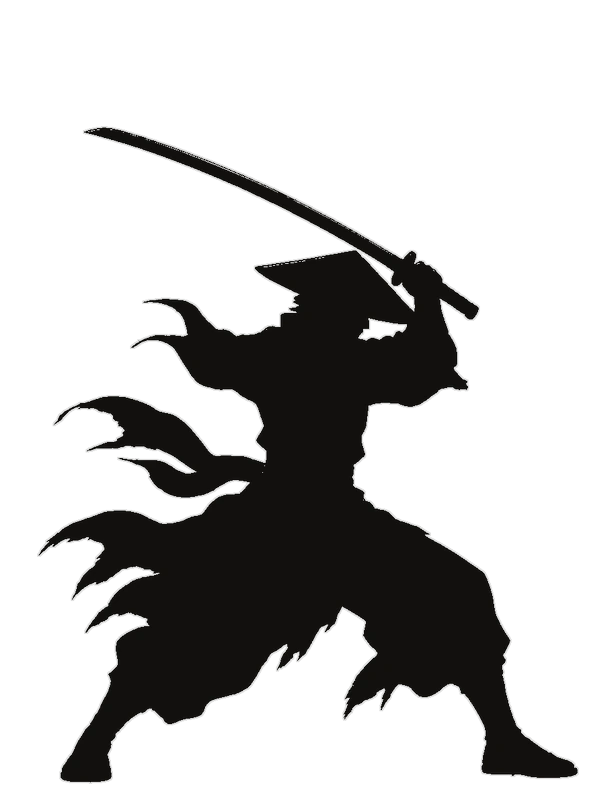
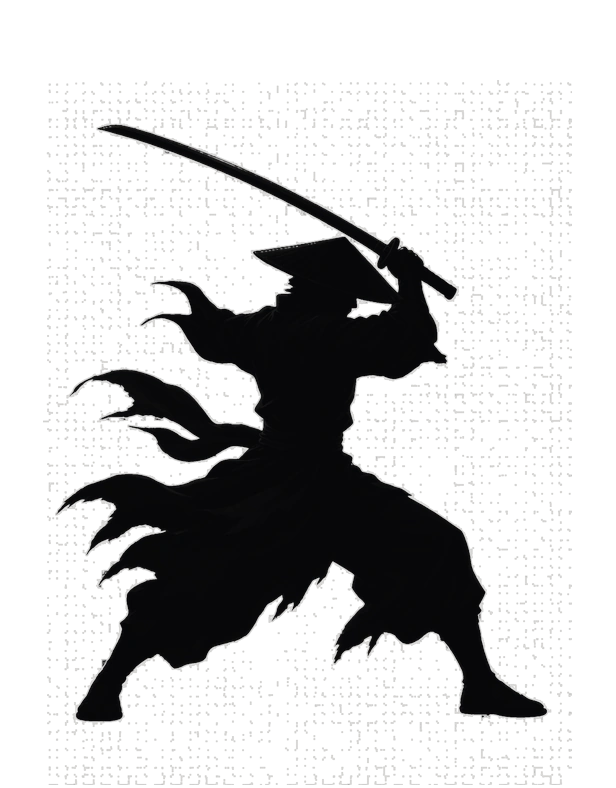
fix(spar): softer ink tones and smaller 0.34 stage scale
Reprocess HQ silhouettes with tonal ink wash and softer rims, and shrink
draw scale further so hero/enemy sit closer to townscape proportions.

diff --git a/src/spar/engine.ts b/src/spar/engine.ts
@@ -575,8 +575,8 @@ export class SparStage {
   /** 舞台幾何：全部 px（CSS 像素）。俠客由左行過去；敵人右邊企定望左 */
   private geom() {
     const h = this.cssH;
-    // 身形約佔舞台高度一半，留山水同行走空間（舊 0.82 太大）
-    const k = (h * 0.48) / SILHOUETTE_DESIGN_H;
+    // 身形約佔舞台高度 1/3，同山水比例更協調（舊 0.82 太大）
+    const k = (h * 0.34) / SILHOUETTE_DESIGN_H;
     // 首次／重設：俠客由左邊起步
     if (this.heroX <= 0) this.heroX = this.cssW * 0.20;
     return {
